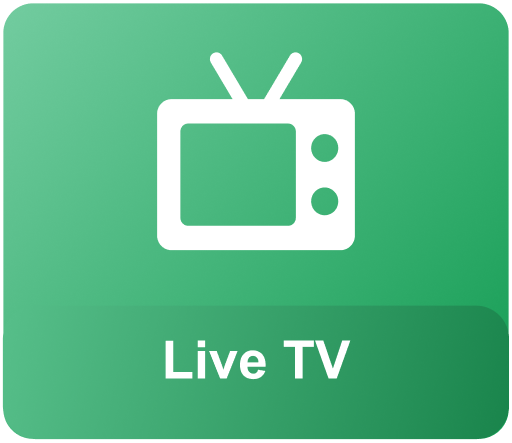
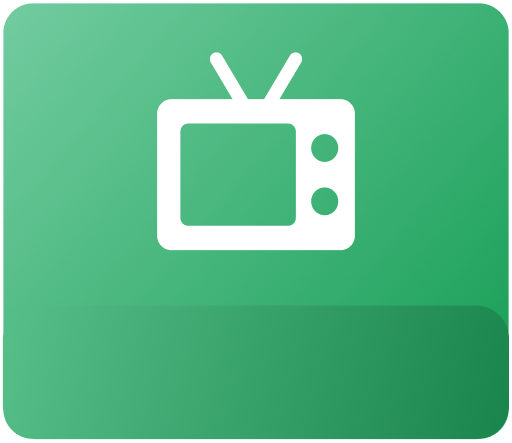
fix issues in firstHomeView

Changed region(s): [[0.3125, 0.763, 0.5312, 0.8804], [0.5312, 0.763, 0.6875, 0.851]]

diff --git a/lib/app/modules/home/views/first_home_view.dart b/lib/app/modules/home/views/first_home_view.dart
@@ -106,8 +106,38 @@ class FirstHomeView extends GetView {
                               onTap: () {
                                 Get.toNamed(Routes.LIVE_T_V);
                               },
-                              child: Image.asset(VoidImages.live_Tv,
-                                height: 110.0.h, width: 130.0.w,),
+                              child: Container(
+                                height: 110.0.h, width: 130.0.w,
+                              decoration: const BoxDecoration(
+                                image: DecorationImage(image: AssetImage(
+                                    VoidImages.live_Tv,
+                                ))
+                              ),
+                                child: Column(
+                                  mainAxisAlignment: MainAxisAlignment.end,
+                                  children: [
+                                    Padding(
+                                      padding: EdgeInsets.symmetric(vertical: 4.0.h),
+                                      child: SizedBox(
+                                        width: 45.w,
+                                        child: Center(
+                                          child: Text(LocaleKeys.LiveTv.tr,
+                                            overflow: TextOverflow.ellipsis,
+                                            style: TextStyle(
+                                              fontFamily: 'Arial',
+                                              fontSize: 7.sp,
+                                              fontWeight: FontWeight.w600,
+                                              color: VoidColors.whiteColor,
+                                            ),
+                                          ),
+                                        ),
+                                      ),
+                                    ),
+                                  ],
+                                )
+                                // Image.asset(VoidImages.live_Tv,
+                                //   height: 110.0.h, width: 130.0.w,),
+                              ),
                             ),
                           ),
                           Expanded(
@@ -116,8 +146,40 @@ class FirstHomeView extends GetView {
                               onTap: () {
                                 Get.toNamed(Routes.MOVIES);
                               },
-                              child: Image.asset(VoidImages.movie,
-                                height: 110.0.h, width: 130.0.w,),
+                              child: Container(
+                                  height: 110.0.h, width: 130.0.w,
+                                  decoration: const BoxDecoration(
+                                      image: DecorationImage(image: AssetImage(
+                                        VoidImages.movie,
+                                      ))
+                                  ),
+                                  child: Column(
+                                    mainAxisAlignment: MainAxisAlignment.end,
+                                    children: [
+                                      Padding(
+                                        padding: EdgeInsets.symmetric(vertical: 4.0.h),
+                                        child: SizedBox(
+                                          width: 45.w,
+                                          child: Center(
+                                            child: Text(LocaleKeys.Movies.tr,
+                                              overflow: TextOverflow.ellipsis,
+                                              style: TextStyle(
+                                                fontFamily: 'Arial',
+                                                fontSize: 7.sp,
+                                                fontWeight: FontWeight.w600,
+                                                color: VoidColors.whiteColor,
+                                              ),
+                                            ),
+                                          ),
+                                        ),
+                                      ),
+                                    ],
+                                  )
+                                // Image.asset(VoidImages.live_Tv,
+                                //   height: 110.0.h, width: 130.0.w,),
+                              ),
+                              // Image.asset(VoidImages.movie,
+                              //   height: 110.0.h, width: 130.0.w,),
                             ),
                           ),
                           Expanded(
@@ -126,8 +188,40 @@ class FirstHomeView extends GetView {
                               onTap: () {
                                 Get.toNamed(Routes.SERIES);
                               },
-                              child: Image.asset(VoidImages.series,
-                                height: 110.0.h, width: 130.0.w,),
+                              child: Container(
+                                  height: 110.0.h, width: 130.0.w,
+                                  decoration: const BoxDecoration(
+                                      image: DecorationImage(image: AssetImage(
+                                        VoidImages.series,
+                                      ))
+                                  ),
+                                  child: Column(
+                                    mainAxisAlignment: MainAxisAlignment.end,
+                                    children: [
+                                      Padding(
+                                        padding: EdgeInsets.symmetric(vertical: 4.0.h),
+                                        child: SizedBox(
+                                          width: 45.w,
+                                          child: Center(
+                                            child: Text(LocaleKeys.Series.tr,
+                                              overflow: TextOverflow.ellipsis,
+                                              style: TextStyle(
+                                                fontFamily: 'Arial',
+                                                fontSize: 7.sp,
+                                                fontWeight: FontWeight.w600,
+                                                color: VoidColors.whiteColor,
+                                              ),
+                                            ),
+                                          ),
+                                        ),
+                                      ),
+                                    ],
+                                  )
+                                // Image.asset(VoidImages.live_Tv,
+                                //   height: 110.0.h, width: 130.0.w,),
+                              ),
+                              // Image.asset(VoidImages.series,
+                              //   height: 110.0.h, width: 130.0.w,),
                             ),
                           ),
                           Expanded(
@@ -136,8 +230,40 @@ class FirstHomeView extends GetView {
                               onTap: () {
                                 Get.toNamed(Routes.SETTING);
                               },
-                              child: Image.asset(VoidImages.setting,
-                                height: 110.0.h, width: 130.0.w,),
+                              child: Container(
+                                  height: 110.0.h, width: 130.0.w,
+                                  decoration: const BoxDecoration(
+                                      image: DecorationImage(image: AssetImage(
+                                        VoidImages.setting,
+                                      ))
+                                  ),
+                                  child: Column(
+                                    mainAxisAlignment: MainAxisAlignment.end,
+                                    children: [
+                                      Padding(
+                                        padding: EdgeInsets.symmetric(vertical: 4.0.h),
+                                        child: SizedBox(
+                                          width: 45.w,
+                                          child: Center(
+                                            child: Text(LocaleKeys.Settings.tr,
+                                              overflow: TextOverflow.ellipsis,
+                                              style: TextStyle(
+                                                fontFamily: 'Arial',
+                                                fontSize: 7.sp,
+                                                fontWeight: FontWeight.w600,
+                                                color: VoidColors.whiteColor,
+                                              ),
+                                            ),
+                                          ),
+                                        ),
+                                      ),
+                                    ],
+                                  )
+                                // Image.asset(VoidImages.live_Tv,
+                                //   height: 110.0.h, width: 130.0.w,),
+                              ),
+                              // Image.asset(VoidImages.setting,
+                              //   height: 110.0.h, width: 130.0.w,),
                             ),
                           ),
                         ],

diff --git a/lib/app/modules/Movies/views/movies_view.dart b/lib/app/modules/Movies/views/movies_view.dart
@@ -15,7 +15,8 @@ class MoviesView extends GetView<MoviesController> {
   @override
   Widget build(BuildContext context) {
     // Initialize ScreenUtil
-    ScreenUtil.init(context, designSize: Size(360, 690), minTextAdapt: true, splitScreenMode: true);
+    ScreenUtil.init(context,
+        designSize: Size(360, 690), minTextAdapt: true, splitScreenMode: true);
 
     return Scaffold(
       appBar: AppBar(
@@ -101,36 +102,40 @@ class MoviesView extends GetView<MoviesController> {
                                 label: Text(LocaleKeys.Play.tr),
                                 style: ElevatedButton.styleFrom(
                                   foregroundColor: Colors.black,
-                                  padding: EdgeInsets.symmetric(horizontal: 24.w, vertical: 12.h),
+                                  padding: EdgeInsets.symmetric(
+                                      horizontal: 24.w, vertical: 12.h),
                                   shape: RoundedRectangleBorder(
                                     borderRadius: BorderRadius.circular(8.0),
                                   ),
                                 ),
                               ),
                               SizedBox(width: 8.w),
-                             OutlinedButton(
-  onPressed: () {},
-  style: OutlinedButton.styleFrom(
-    foregroundColor: Colors.white,
-    backgroundColor: Color(0x6D6D6EB2),
-    side: BorderSide(color: Colors.white),
-    padding: EdgeInsets.symmetric(horizontal: 24.w, vertical: 12.h),
-    shape: RoundedRectangleBorder(
-      borderRadius: BorderRadius.circular(8.0),
-    ),
-  ),
-  child: Row(
-    mainAxisSize: MainAxisSize.min,
-    children: [
-      Image.asset(
-        VoidImages.info,
-        color: Colors.white,
-      ),
-      SizedBox(width: 8.w),
-      Text(LocaleKeys.MoreInfo.tr),
-    ],
-  ),
-),
+                              OutlinedButton(
+                                onPressed: () {},
+                                style: OutlinedButton.styleFrom(
+                                  foregroundColor: Colors.white,
+                                  backgroundColor: Color(0x6D6D6EB2),
+                                  side: BorderSide(color: Colors.white),
+                                  padding: EdgeInsets.symmetric(
+                                      horizontal: 24.w, vertical: 12.h),
+                                  shape: RoundedRectangleBorder(
+                                    borderRadius: BorderRadius.circular(8.0),
+                                  ),
+                                ),
+                                child: Row(
+                                  mainAxisSize: MainAxisSize.min,
+                                  children: [
+                                    Image.asset(
+                                      VoidImages.info,
+                                      color: Colors.white,
+                                      height: 18.h,
+                                      width: 18.w,
+                                    ),
+                                    SizedBox(width: 8.w),
+                                    Text(LocaleKeys.MoreInfo.tr),
+                                  ],
+                                ),
+                              ),
                             ],
                           ),
                         ],
@@ -177,12 +182,12 @@ class MoviesView extends GetView<MoviesController> {
                 return GestureDetector(
                   onTap: () {
                     Get.to(() => MoviesView2(
-                      imageUrl: movie.logo,
-                      channelName: movie.name,
-                      programInfo: movie.group,
-                      date: '',
-                      streamUrl: movie.url,
-                    ));
+                          imageUrl: movie.logo,
+                          channelName: movie.name,
+                          programInfo: movie.group,
+                          date: '',
+                          streamUrl: movie.url,
+                        ));
                   },
                   child: buildMovieCard(movie.logo, movie.name),
                 );

diff --git a/lib/app/utils/constraints/image_strings.dart b/lib/app/utils/constraints/image_strings.dart
@@ -6,7 +6,7 @@ class VoidImages {
   static const String background2="assets/images/firstHomeBgImg.png";
   static const String background3="assets/images/bg3.png";
   static const String back="assets/images/back_button.png";
-  static const String movie="assets/images/movieImg.png";
+  static const String movie="assets/images/moviesImg.png";
   static const String movieInfo="assets/images/movieInfoImg.png";
   static const String series="assets/images/seriesImg.png";
   static const String setting_icon="assets/images/setting.png";
